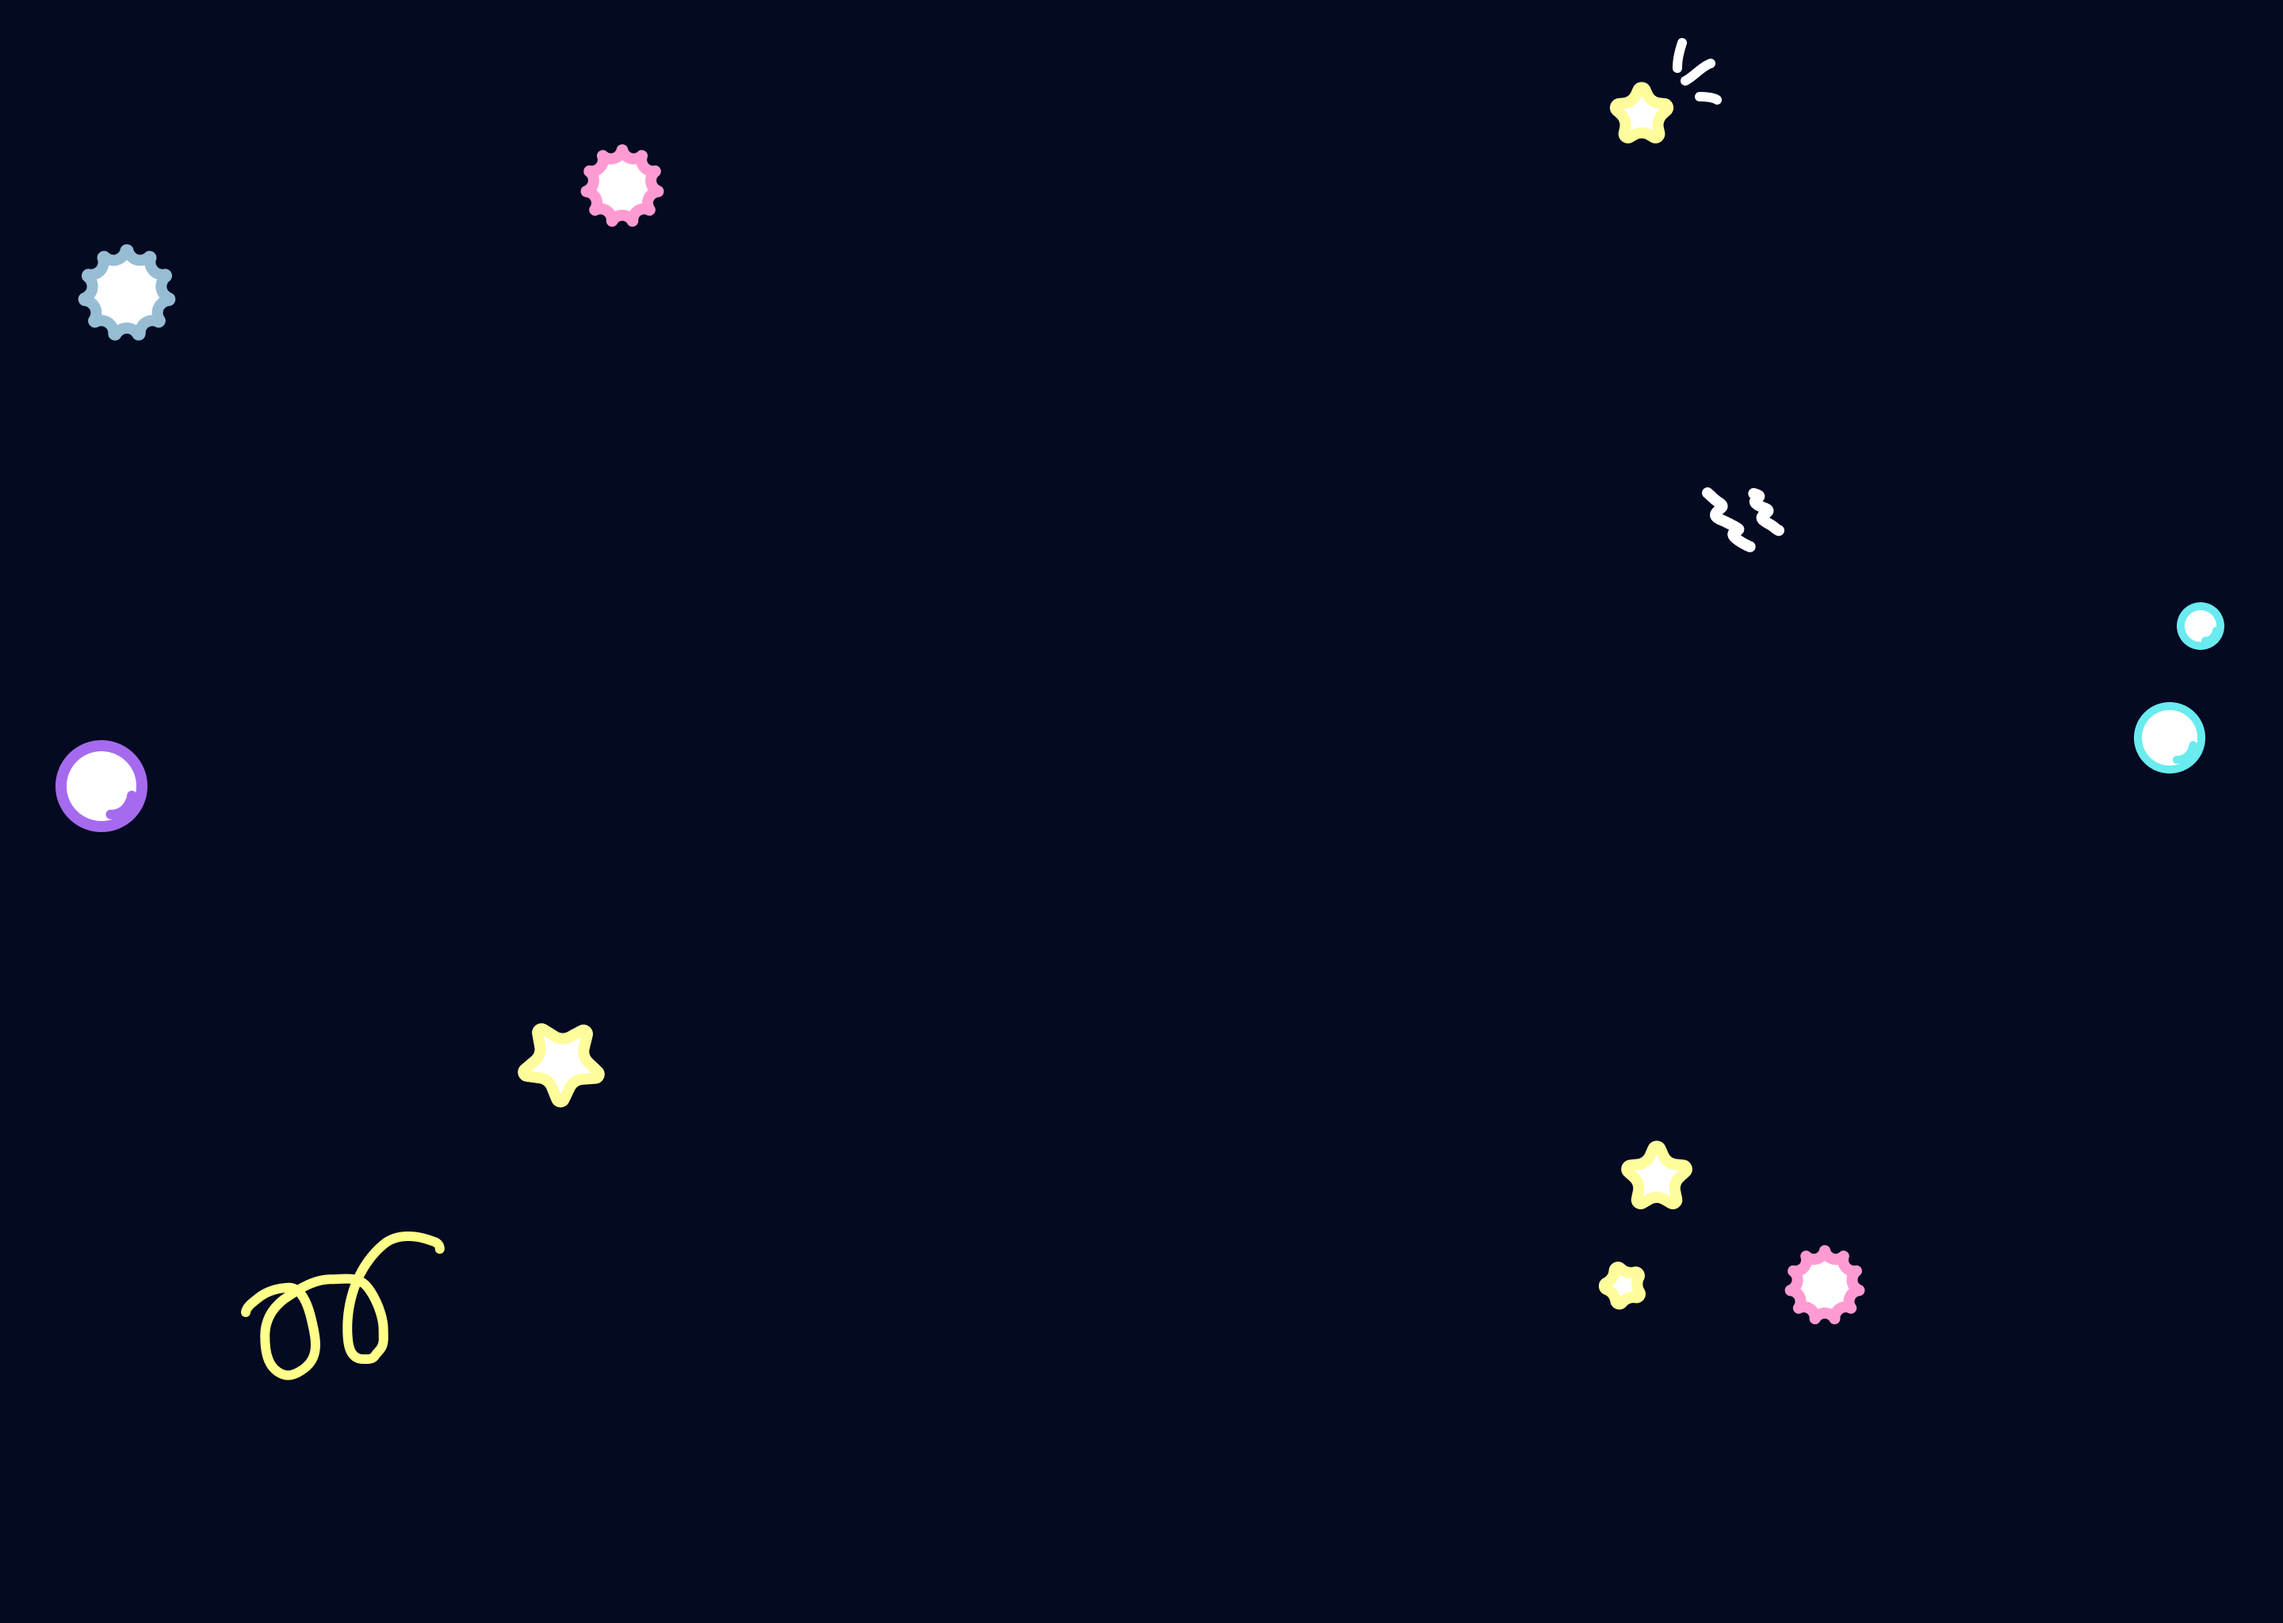
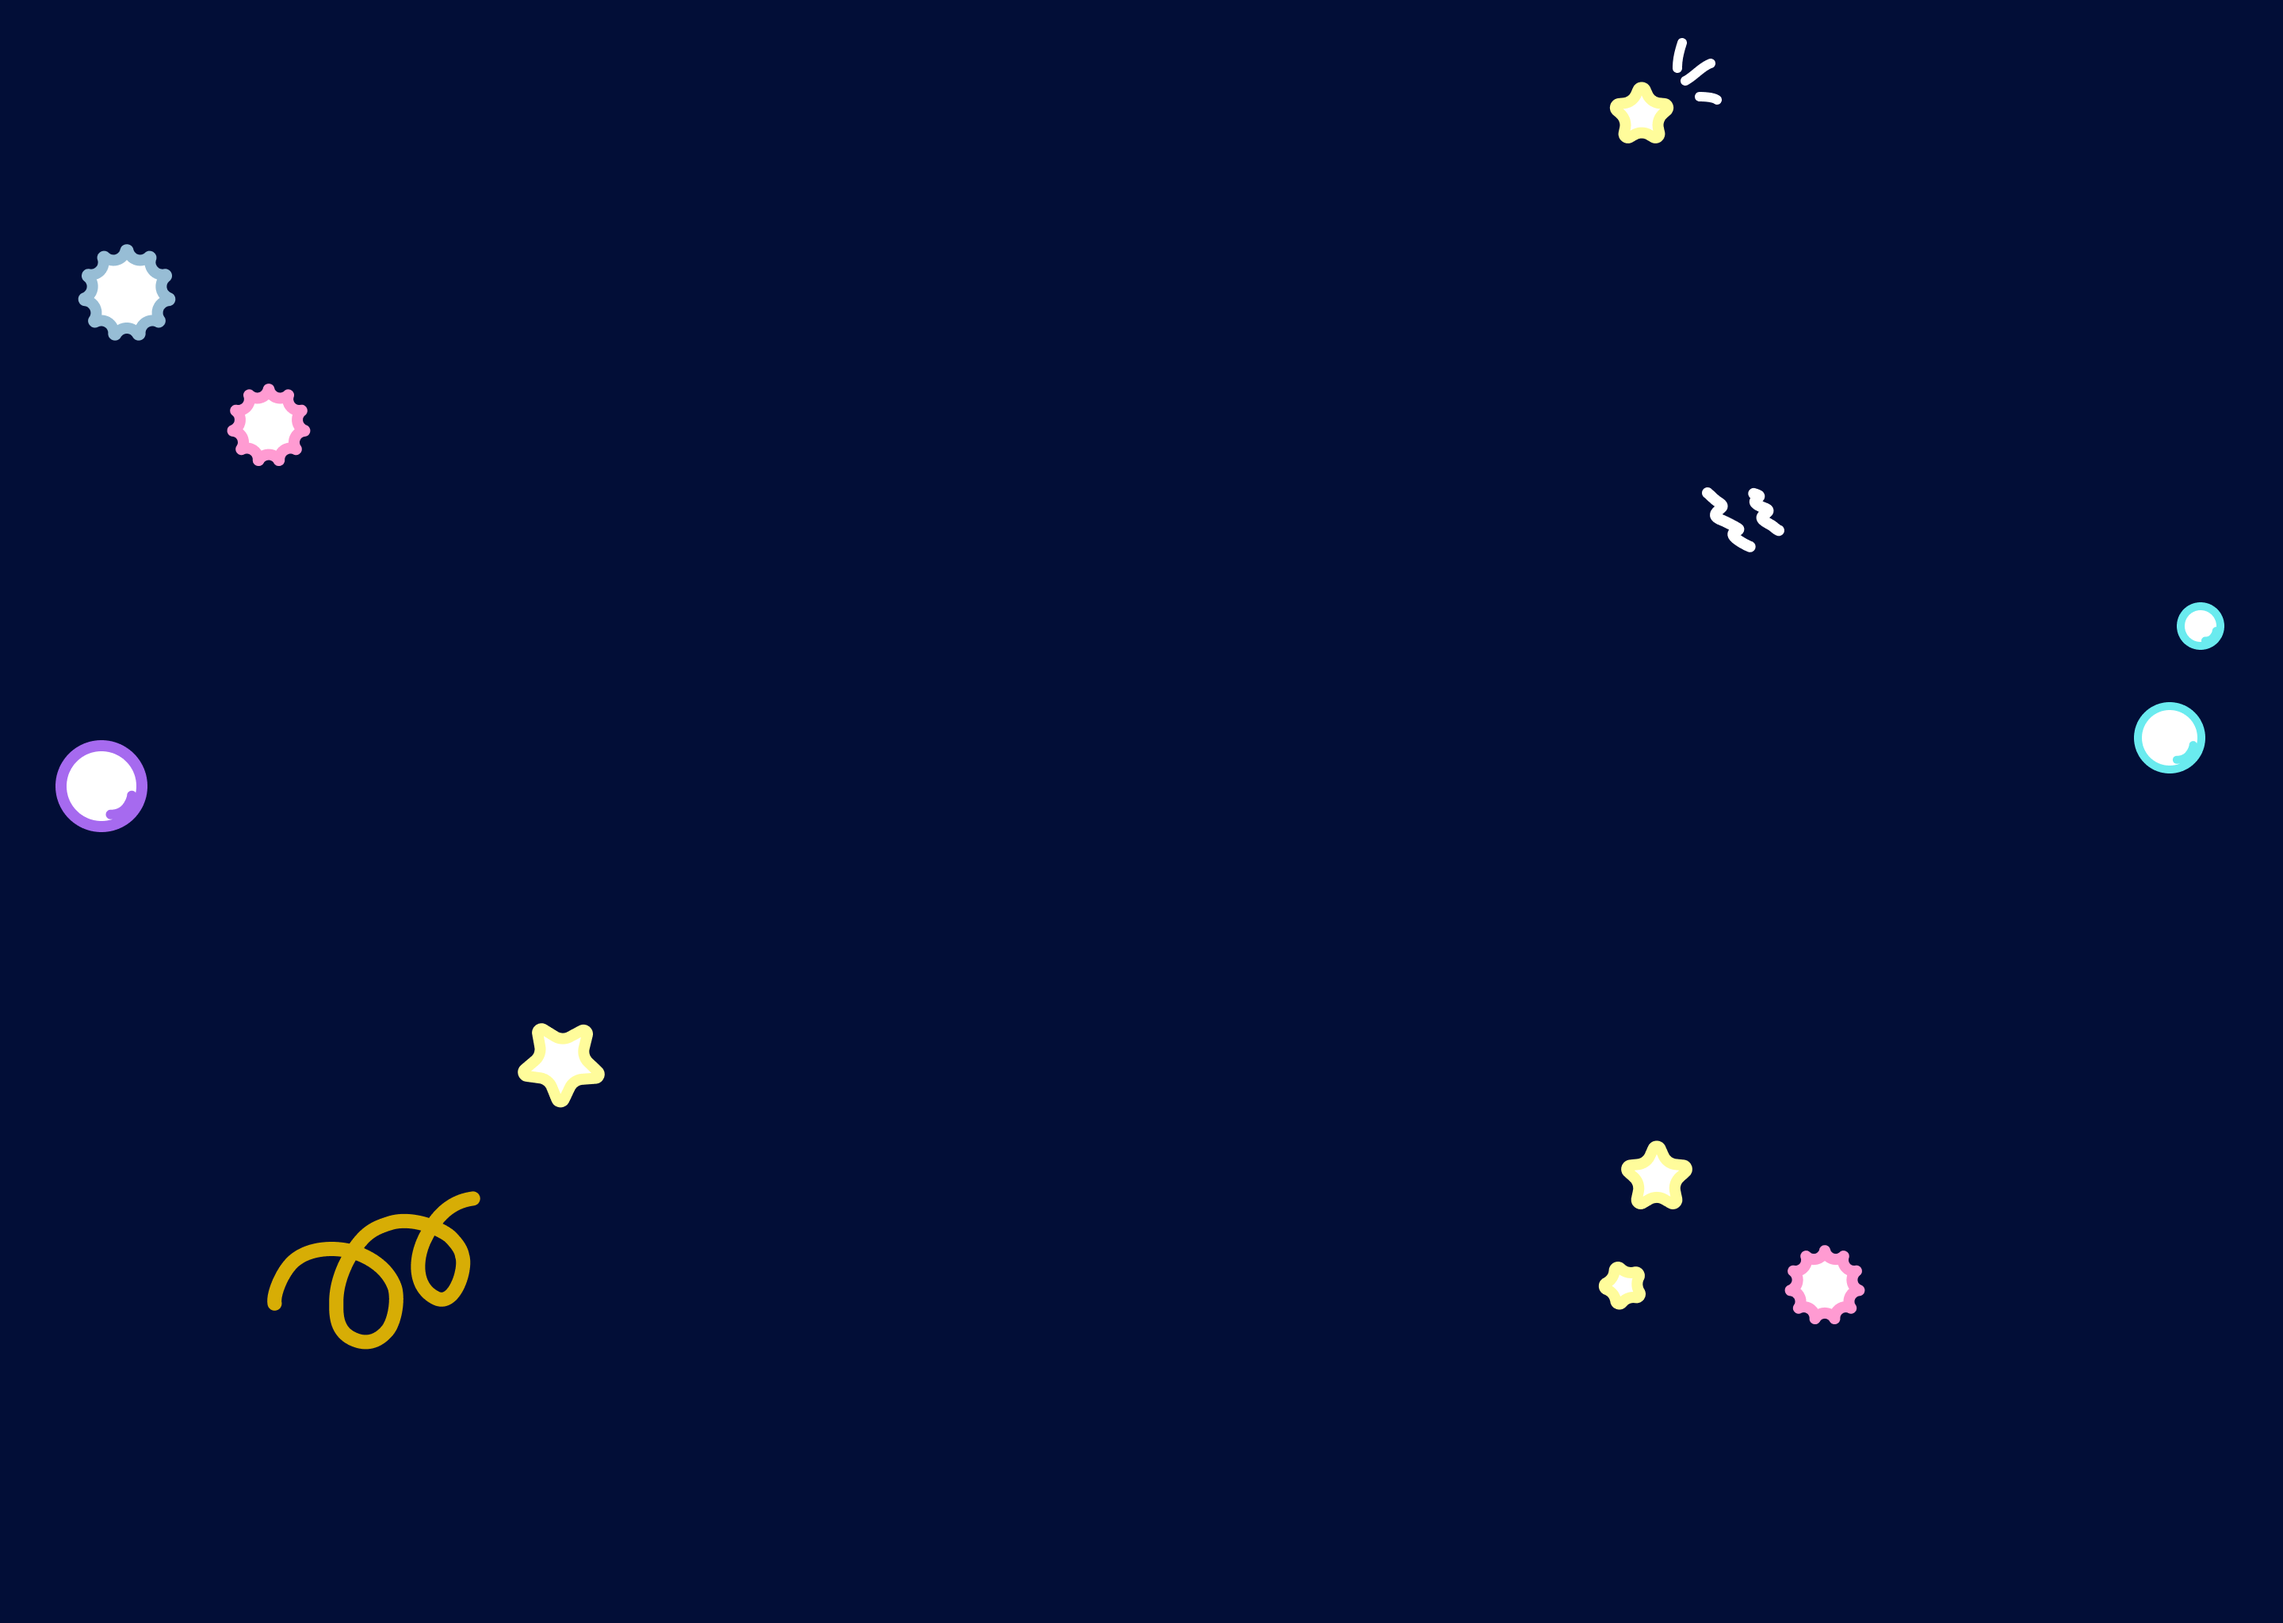
topページ画像位置修正

Changed region(s): [[0.0938, 0.7188, 0.2188, 0.8438], [0.25, 0.0938, 0.3125, 0.1562], [0.0938, 0.2188, 0.1562, 0.2812]]

diff --git a/src/app/layout.tsx b/src/app/layout.tsx
@@ -46,7 +46,7 @@ export default function RootLayout({
           initial={{ rotate: 0 }}
           animate={{ rotate: [0, 7, -5, 0] }}
           transition={{ duration: 5, repeat: 7 }}
-          className="absolute z-[-1] top-24 left-40  "
+          className="absolute  w-[11%] z-[-1] top-24 left-[20%]  "
         />
         <motion.img
           src="/top-img/doro.png"
@@ -56,7 +56,7 @@ export default function RootLayout({
           initial={{ y: 0 }}
           animate={{ y: [0, -32, 0] }} // ゆらゆら上下に動く
           transition={{ duration: 3, repeat: 7 }}
-          className="absolute z-[-1] bottom-48 left-8"
+          className="absolute  w-[15%] z-[-1] bottom-48 left-8"
         />
         <motion.img
           src="/top-img/heart.png"
@@ -66,7 +66,7 @@ export default function RootLayout({
           initial={{ scale: 0.95 }}
           animate={{ scale: [0.95, 1.05, 0.95] }}
           transition={{ duration: 1, repeat: 7 }}
-          className="absolute z-[-1] top-16 right-18"
+          className="absolute w-[11%] z-[-1] top-16 right-18"
         />
         <motion.img
           src="/top-img/shy.png"
@@ -76,7 +76,7 @@ export default function RootLayout({
           initial={{ y: 0 }}
           animate={{ y: [0, -15, 0] }} // ゆらゆら上下に動く
           transition={{ duration: 4, repeat: 7 }}
-          className="absolute z-[-1] top-70 right-43"
+          className="absolute w-[11%] z-[-1] top-70 right-[24%]"
         />
         <motion.img
           src="/top-img/neko.png"
@@ -86,7 +86,7 @@ export default function RootLayout({
           initial={{ rotate: 0 }}
           animate={{ rotate: [0, -5, 5, 0] }}
           transition={{ duration: 2, repeat: 7 }}
-          className="absolute z-[-1] bottom-18 right-8"
+          className="absolute w-[15%] z-[-1] bottom-[11%] right-8"
         />
         <main className="relative max-w-[500px] h-screen mx-auto border-x border-white bg-[#020E37] overflow-y-auto hidden-scrollbar">
           {children}

diff --git a/src/app/page.tsx b/src/app/page.tsx
@@ -29,7 +29,7 @@ export default function Home() {
           width={300}
           height={300}
           alt="topLogo"
-          className="w-3xs mx-auto my-20"
+          className="w-4xs mx-auto my-15"
         />
       </motion.div>
       <div className="flex justify-center items-center">
